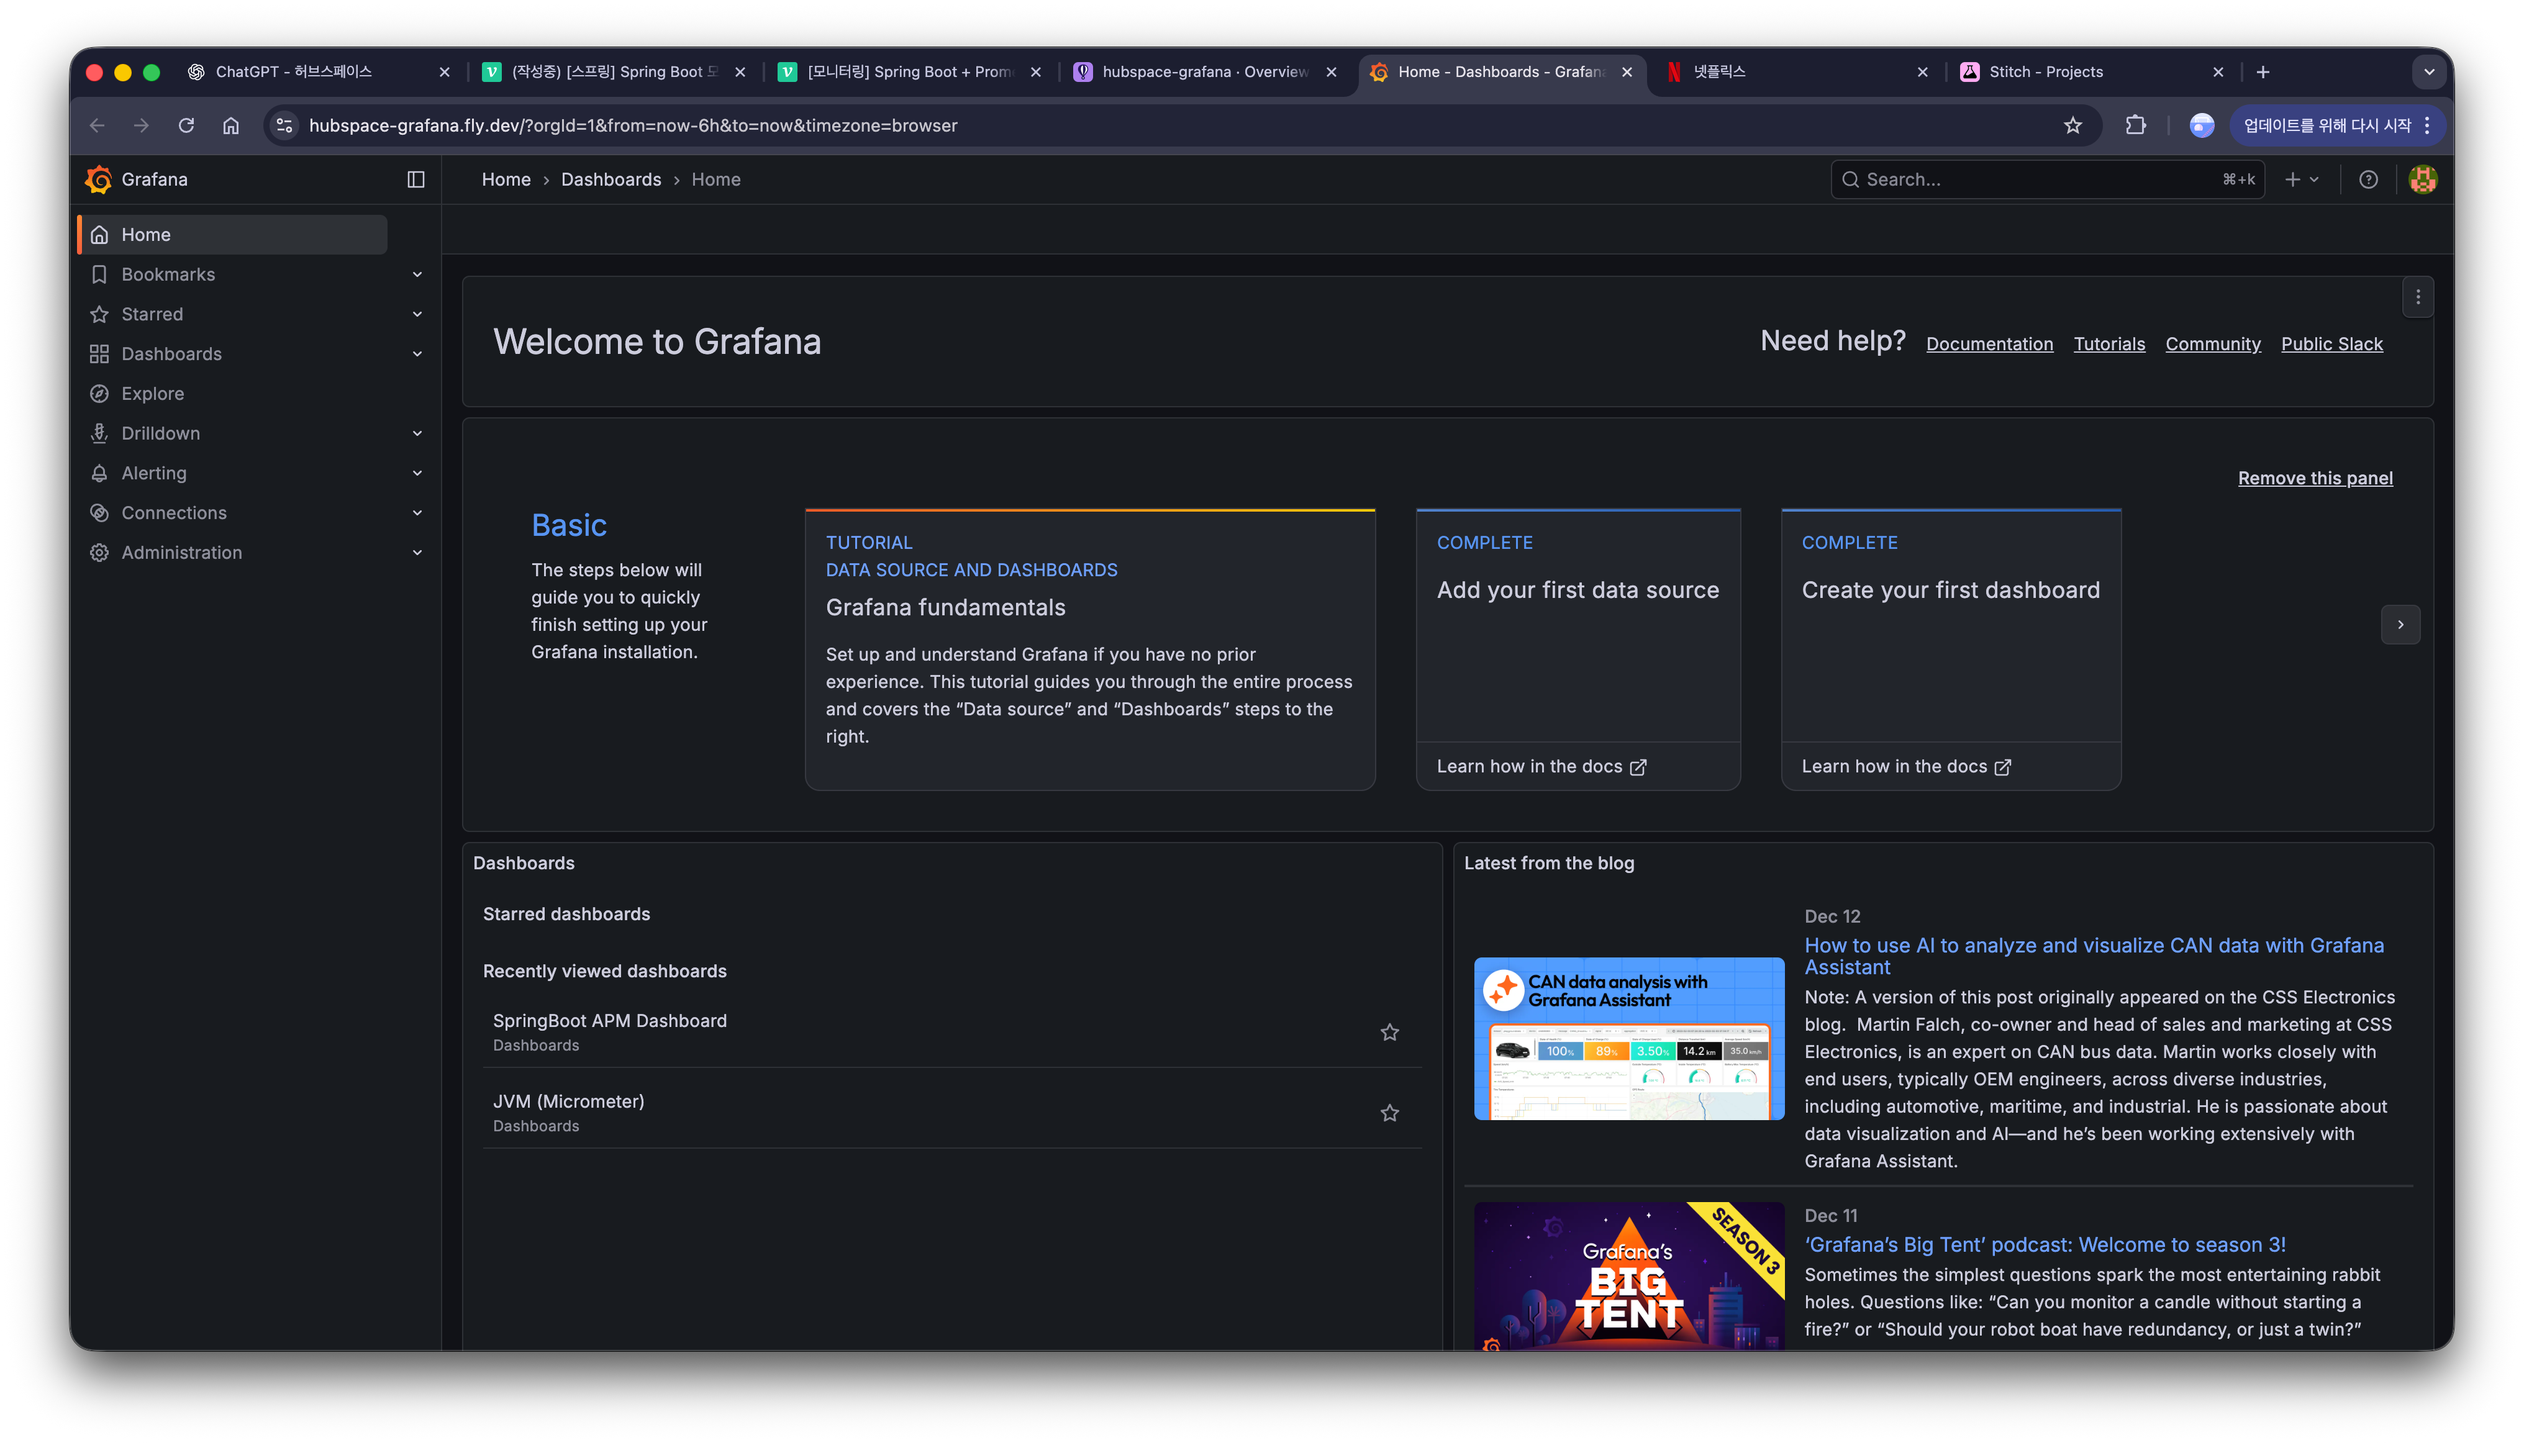
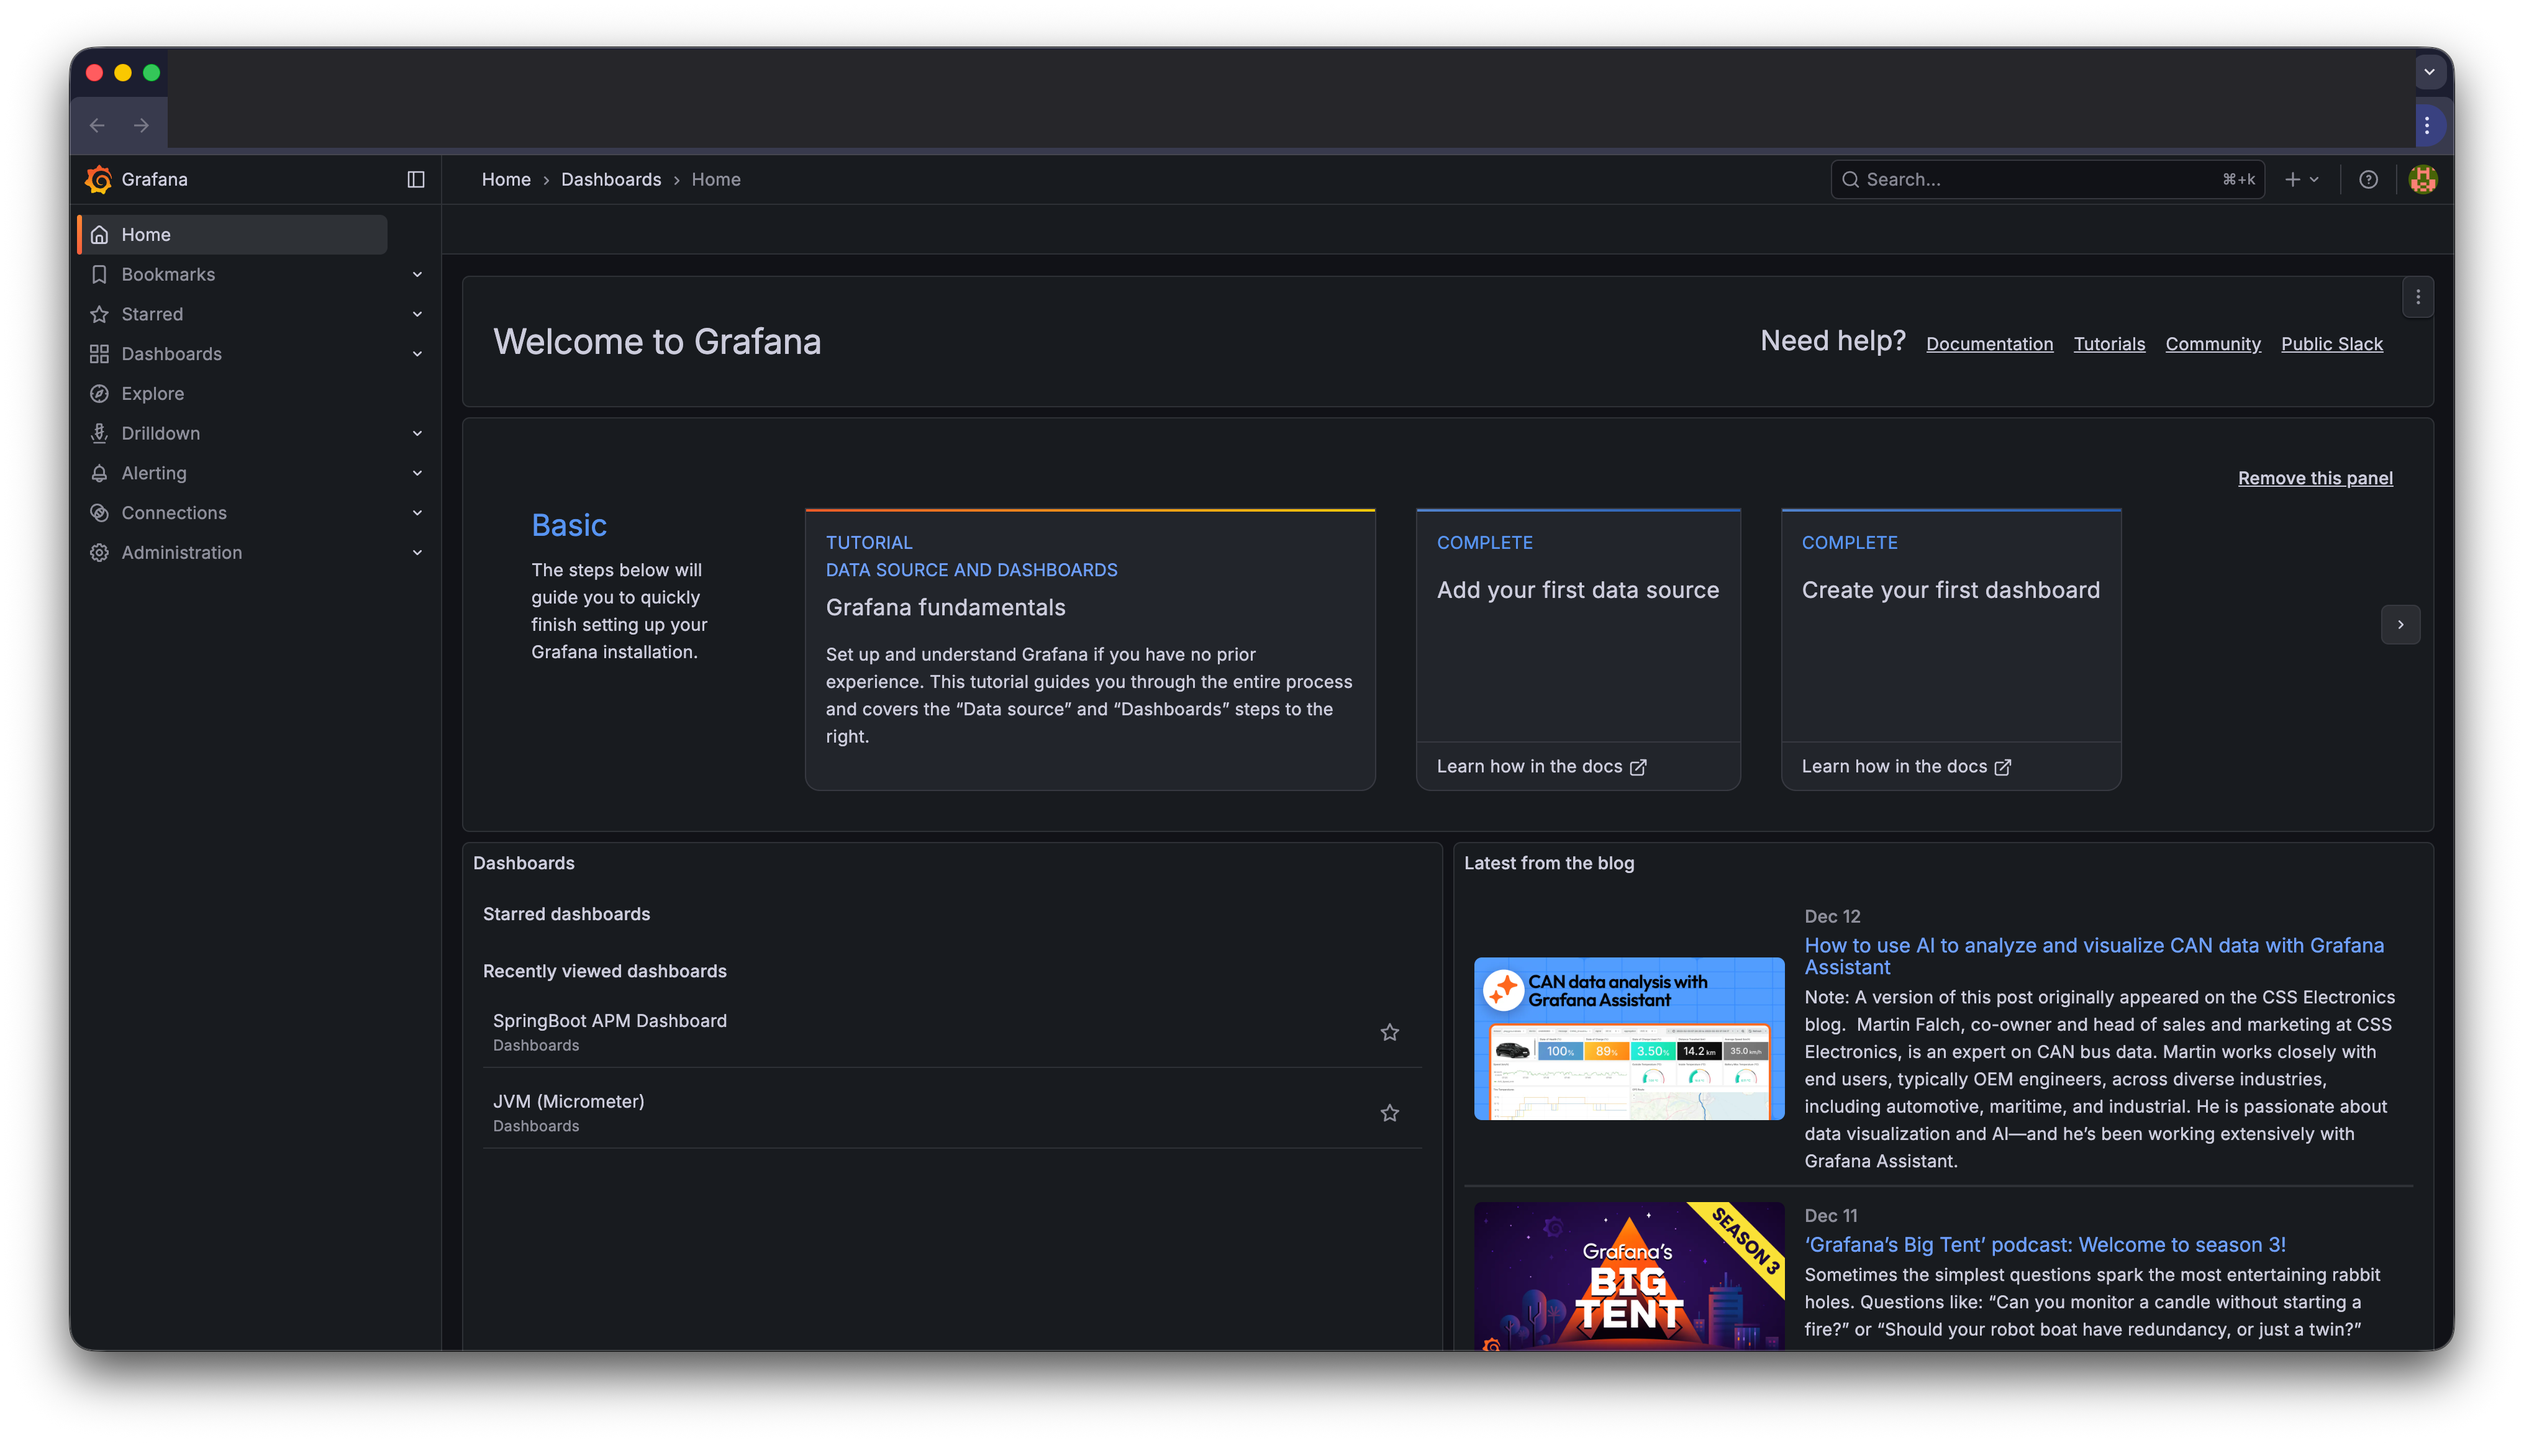
docs: fix typos, unify placeholders and mask grafana url in screenshot

Changed region(s): [[0.0625, 0.031, 0.9688, 0.1239]]

diff --git a/_posts/2026-01-21-spring-boot-prometheus-grafana.md b/_posts/2026-01-21-spring-boot-prometheus-grafana.md
@@ -159,7 +159,7 @@ fly launch --name 앱_이름 --no-deploy
 fly volumes create prometheus_data --size 3 --region nrt --app 앱_이름
 ```
 
-볼륨은 쉽게 말해서 외장하드 라고 볼 수 있다.
+볼륨은 쉽게 말해서 외장하드라고 볼 수 있다.
 
 {: start="3"}
 3. prometheus/fly.toml 에 mount 추가
@@ -183,7 +183,7 @@ fly deploy --app 앱_이름
 ### Grafana 적용하기
 > 경로: grafana/provisioning/datasources/datasource.yml
 
-Spring 과 Prometheus 와 분리하여 grafana 디렉토리를 생성한다.
+Spring, Prometheus 와 분리하여 grafana 디렉토리를 생성한다.
 그리고 `datasource.yml` 에 다음 내용을 작성한다.
 
 ``` yml
@@ -193,7 +193,7 @@ datasources:
   - name: Prometheus
     type: prometheus
     access: proxy
-    url: http://prometheus.internal:9090  # 프로메테우스 주소
+    url: http://prometheus_앱_이름.internal:9090  # 프로메테우스 주소
     isDefault: true
 ```
 
@@ -244,7 +244,7 @@ fly secrets set \
 5. 배포
 
 ``` cli
-fly deploy --app hubspace-grafana
+fly deploy --app Grafana_앱_이름
 ```
 
 <br />
@@ -253,7 +253,7 @@ fly deploy --app hubspace-grafana
 
 ### Prometheus
 
-Prometheus 는 Flyio 의 경우 `fly proxy 9090:9090 --app prometheus_앱_이름` 를 터미널에 입력해야 로컬에서 접속할 수 있다.
+Prometheus 는 Fly.io 의 경우 `fly proxy 9090:9090 --app prometheus_앱_이름` 를 터미널에 입력해야 로컬에서 접속할 수 있다.
 EC2 의 경우 Prometheus 의 IP 로 접속하면 된다.
 
 ![Prometheus Target health 화면에서 API 서버 상태가 UP으로 표시된 모습](/assets/img/posts/spring-boot-prometheus-grafana/01-prometheus-targets.png)
@@ -263,8 +263,8 @@ Status > Targets 에 들어가면 API 서버가 보이고 State 가 `UP` 이면 
 
 ### Grafana
 
-Grafana 는 Flyio 의 경우 `Hostname` 으로 그냥 들어갈 수 있다.
-EC2 의 경우 Prometheus 와 방식으로 접속하면 된다.
+Grafana 는 Fly.io 의 경우 `Hostname` 으로 그냥 들어갈 수 있다.
+EC2 의 경우 Prometheus 와 같은 방식으로 접속하면 된다.
 
 로그인을 하고 아래와 같은 화면이 보인다면 성공이다.
 대시보드 구성은 이번 포스트에서는 스킵하려고 한다. `Grafana 템플릿` 을 검색하면 모니터링 대시보드 템플릿을 찾아볼 수 있다.
